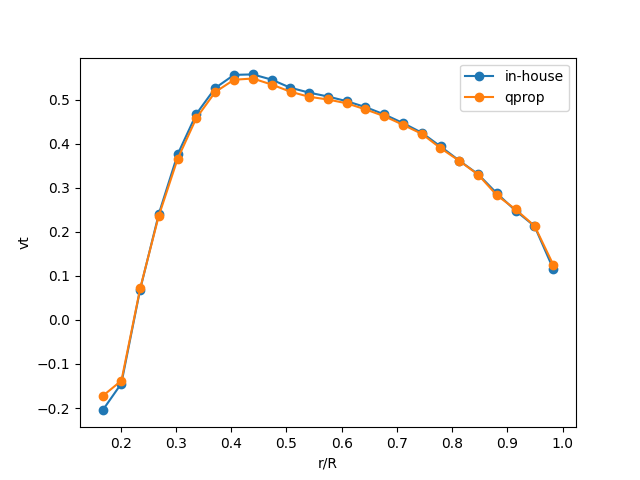
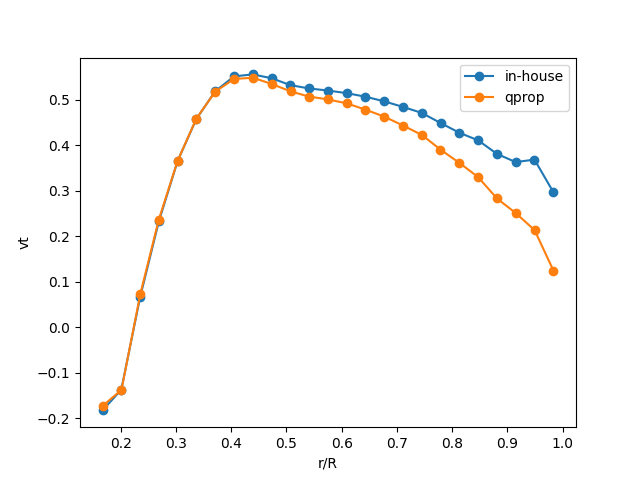
F=1は間違っていたことが確認できたので、修正

diff --git a/perform_analysis_qprop.py b/perform_analysis_qprop.py
@@ -72,14 +72,13 @@ for i in range(len(r_R)):
         aoa = beta[i] - np.degrees(np.arctan(Wa / Wt))
         W = np.sqrt(Wa**2 + Wt**2)
         cl = np.interp(aoa, alpha, airfoil_cl) * 1 / np.sqrt(1-(W/340)**2)
-        print("Wa is ", Wa, "at r/R = ", r_R[i])
         # --- qprop modify ---
         if (qpropFactorFlag):
             lamda = r / R * Wa / Wt
             f = B / 2 * (1 - r/R) / lamda 
             f = np.minimum(f, 20)
             F = 2 / math.pi * np.arccos(np.clip(np.exp(-f), -1, 1))
-            gamma = vt * 4 * math.pi * r / B #* F * np.sqrt(1 + (4 * lamda * R / (math.pi * B * r ))**2)
+            gamma = vt * 4 * math.pi * r / B * F * np.sqrt(1 + (4 * lamda * R / (math.pi * B * r ))**2)
         # --- prandtl original ---
         else:
             lamda = V / R / omega 
@@ -115,7 +114,7 @@ if qpropFactorFlag:
     lamda = r / R * Wa / Wt
     f = B / 2 * (1 - r/R) / lamda
     F = 2 / math.pi * np.arccos(np.clip(np.exp(-f), -1, 1))
-    gamma = vt * 4 * math.pi * r / B #* F * np.sqrt(1 + (4 * lamda * R / (math.pi * B * r ))**2)
+    gamma = vt * 4 * math.pi * r / B * F * np.sqrt(1 + (4 * lamda * R / (math.pi * B * r ))**2)
 else:
     lamda = V / R / omega 
     f = B / 2 * (1 - r/R) / lamda *np.sqrt(lamda**2 + 1)
@@ -139,7 +138,7 @@ qprop_vt = omega * r - qprop_Wt
 qprop_r = qprop_r_R * R
 qprop_Ut = omega * qprop_r
 qprop_U = np.sqrt(V**2 + qprop_Ut**2)
-qprop_gamma = qprop_vt * 4 * math.pi * r / B #* qprop_F * np.sqrt(1 + (4 * qprop_lamda * R / (math.pi * B * r ))**2)
+qprop_gamma = qprop_vt * 4 * math.pi * r / B * qprop_F * np.sqrt(1 + (4 * qprop_lamda * R / (math.pi * B * r ))**2)
 
 # plot F
 plt.clf()
